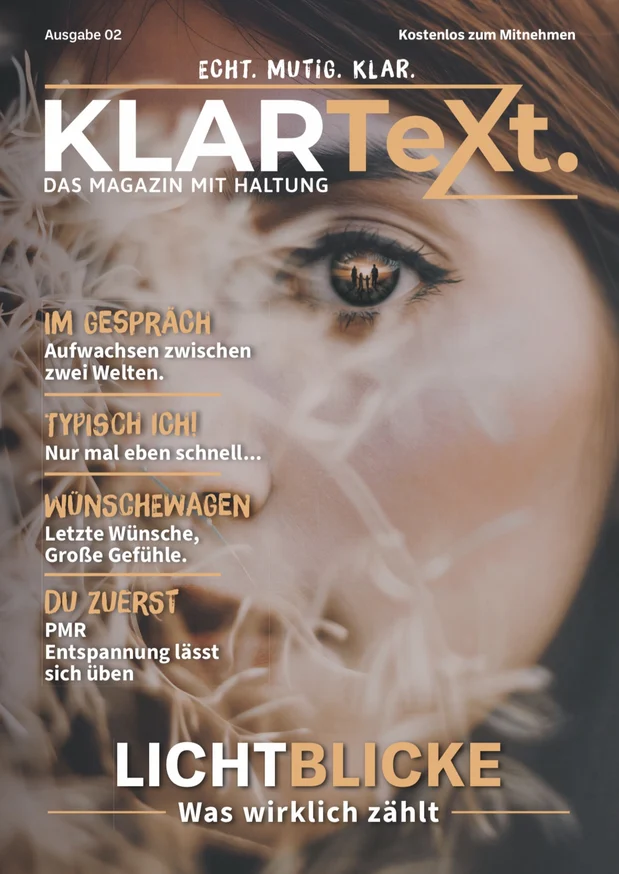
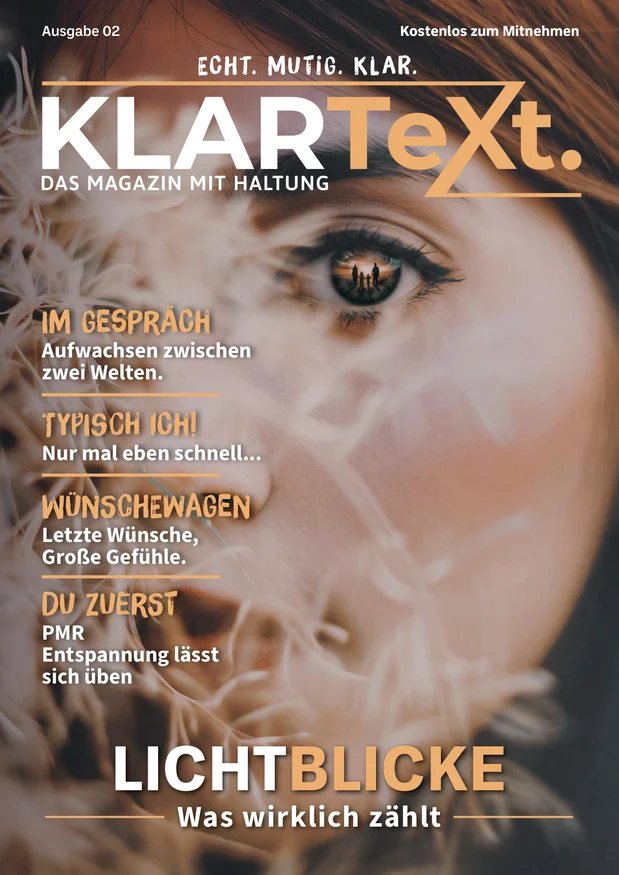
Eigene ruhige Farbwelt: Elfenbein, Schokobraun, Sand, Jeansblau
- Weinrot -> Schokobraun (#3e2b24): Kopf der Übersicht, Footer, App-Icon
- Hintergrund Elfenbein (#f2ede5), auch Theme-/Manifest-Farbe
- neuer Akzent Jeansblau (--denim, #c3ced3) für das Band "Veranstaltungen"
- Pampas-Sand bleibt
- Cover von Ausgabe 02 aus dem finalen Druck-PDF; Icons mit ?v=4

Claude-Session: https://claude.ai/code/session_01EuXt19W6QrMaBESVtJQ1WD

diff --git a/src/styles.css b/src/styles.css
@@ -57,14 +57,14 @@
 }
 
 /* -------------------------------------------------------
-   FARBPALETTE – Cloud Dancer / Espresso / Pampas-Sand (Akzent) / Weinrot
+   FARBPALETTE – Elfenbein / Espresso / Pampas-Sand / Jeansblau / Schokobraun
    ------------------------------------------------------- */
 
 :root {
   --radius: 0.625rem;
 
   /* Grundfarben */
-  --background: #f0eee9;
+  --background: #f2ede5;
   --foreground: #3b2723;
   --card: #f8f6f2;
   --primary: #3b2723;
@@ -85,13 +85,14 @@
   --light: #f8f6f2;
   --pearl: #f8f6f2;
   --neutral-pearl: #f8f6f2;
-  --neutral-ivory: #f0eee9;
+  --neutral-ivory: #f2ede5;
   --neutral-linen-cool: #e7e2dc;
   --neutral-mist: #ded8d1;
   --neutral-line: #cfc6bf;
 
   /* Akzente */
-  --wine: #4a0404;
+  --wine: #3e2b24; /* Schokobraun (Name bleibt, damit alle Regeln greifen) */
+  --denim: #c3ced3; /* staubiges Jeansblau */
   --sage: #3a0c0c;
   --sage-foreground: #260808;
 
@@ -413,8 +414,8 @@
   background: var(--background);
 }
 
-.overview-band--sand {
-  background: var(--secondary);
+.overview-band--denim {
+  background: var(--denim);
 }
 
 /* Große Abschnittsüberschrift in den Bändern */
@@ -513,7 +514,7 @@
   display: flex;
   flex-direction: column;
   padding: 0.6rem 0.55rem;
-  background: linear-gradient(160deg, var(--wine) 0%, #2a0606 100%);
+  background: linear-gradient(160deg, var(--wine) 0%, #2b1d18 100%);
   color: var(--pearl);
 }
 

diff --git a/src/routes/__root.tsx b/src/routes/__root.tsx
@@ -122,7 +122,7 @@ export const Route = createRootRoute({
 
       {
         name: "theme-color",
-        content: "#F0EEE9",
+        content: "#F2EDE5",
       },
 
       {
@@ -155,11 +155,11 @@ export const Route = createRootRoute({
         rel: "stylesheet",
         href: appCss,
       },
-      { rel: "icon", href: "/favicon.png?v=3", type: "image/png", sizes: "64x64" },
-      { rel: "icon", href: "/icon-192.png?v=3", type: "image/png", sizes: "192x192" },
-      { rel: "icon", href: "/icon-512.png?v=3", type: "image/png", sizes: "512x512" },
-      { rel: "apple-touch-icon", href: "/apple-touch-icon.png?v=3", sizes: "180x180" },
-      { rel: "manifest", href: "/manifest.webmanifest?v=3" },
+      { rel: "icon", href: "/favicon.png?v=4", type: "image/png", sizes: "64x64" },
+      { rel: "icon", href: "/icon-192.png?v=4", type: "image/png", sizes: "192x192" },
+      { rel: "icon", href: "/icon-512.png?v=4", type: "image/png", sizes: "512x512" },
+      { rel: "apple-touch-icon", href: "/apple-touch-icon.png?v=4", sizes: "180x180" },
+      { rel: "manifest", href: "/manifest.webmanifest?v=4" },
     ],
   }),
   shellComponent: RootShell,

diff --git a/src/routes/index.tsx b/src/routes/index.tsx
@@ -170,7 +170,7 @@ function Overview() {
         </section>
 
         <section
-          className="overview-band overview-band--sand px-5 py-14 sm:px-7"
+          className="overview-band overview-band--denim px-5 py-14 sm:px-7"
           aria-labelledby="events-titel"
         >
           <div className="mx-auto w-full max-w-[430px]">
